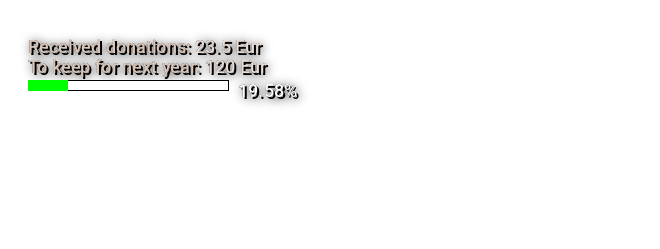
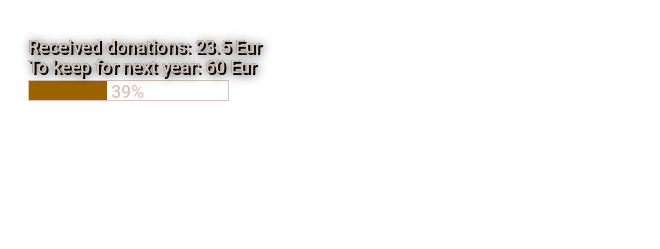
update

Changed region(s): [[0.0303, 0.1687, 0.4545, 0.4217]]

diff --git a/OpenCollective_API_image_server/UI_ESC_2_OpenCollective_Image_Server_Display/OpenCollective_API_image_server.py b/OpenCollective_API_image_server/UI_ESC_2_OpenCollective_Image_Server_Display/OpenCollective_API_image_server.py
@@ -81,52 +81,63 @@ def draw_project_info(draw, project_info, font):
     text_color = (218, 198, 184)  # Default text color
     shadow_color = (0, 0, 0)  # Shadow color
     shadow_offset = (2, 2)  # Offset for the shadow
-    red_color = (232,220,212)  # Red color for specific parts
+
+    # Define progress bar dimensions
+    progress_bar_width = 200
+    progress_bar_height = 20
+    progress_bar_x = 28
+    progress_bar_y = 80
+
+    # Calculate progress percentage
+    progress_percentage = min(1, project_info['total_amount_received'] / project_info['goal_amount'])
+
+    # Define gradient colors
+    start_color = (255, 0, 0)  # Red
+    end_color = (0, 255, 0)  # Green
+
+    # Interpolate color based on progress
+    current_color = (
+        int(start_color[0] + (end_color[0] - start_color[0]) * progress_percentage),
+        int(start_color[1] + (end_color[1] - start_color[1]) * progress_percentage),
+        int(start_color[2] + (end_color[2] - start_color[2]) * progress_percentage)
+    )
+
+    # Draw progress bar outline
+    draw.rectangle([progress_bar_x, progress_bar_y, progress_bar_x + progress_bar_width, progress_bar_y + progress_bar_height], outline=text_color)
+
+    # Draw progress bar filled with gradient color
+    draw.rectangle([progress_bar_x + 1, progress_bar_y + 1, progress_bar_x + 1 + int(progress_percentage * (progress_bar_width - 2)), progress_bar_y + progress_bar_height - 1], fill=current_color)
+
+    # Draw text showing progress percentage
+    progress_text = f"{int(progress_percentage * 100)}%"
+    text_width, text_height = draw.textsize(progress_text, font=font)
+    text_x = progress_bar_x + (progress_bar_width - text_width) // 2
+    text_y = progress_bar_y + (progress_bar_height - text_height) // 2
+    draw.text((text_x, text_y), progress_text, fill=text_color, font=font)
 
     # Draw total amount received
     total_amount_text = f"Received donations: "
     draw_text_with_shadow(draw, total_amount_text, (28, 36), font, text_color, shadow_color, shadow_offset)
 
-    # Draw total amount received value in red
+    # Draw total amount received value
     total_amount_received = f"{project_info['total_amount_received']} Eur"
-    draw_text_with_shadow(draw, total_amount_received, (28 + draw.textsize(total_amount_text, font=font)[0], 36), font, red_color, shadow_color, shadow_offset)
+    draw_text_with_shadow(draw, total_amount_received, (28 + draw.textsize(total_amount_text, font=font)[0], 36), font, text_color, shadow_color, shadow_offset)
 
     # Draw goal amount
     goal_amount_text = f"To keep for next year: "
     draw_text_with_shadow(draw, goal_amount_text, (28, 56), font, text_color, shadow_color, shadow_offset)
 
-    # Draw goal amount value in red
+    # Draw goal amount value
     goal_amount_value = f"{project_info['goal_amount']} Eur"
-    draw_text_with_shadow(draw, goal_amount_value, (28 + draw.textsize(goal_amount_text, font=font)[0], 56), font, red_color, shadow_color, shadow_offset)
+    draw_text_with_shadow(draw, goal_amount_value, (28 + draw.textsize(goal_amount_text, font=font)[0], 56), font, text_color, shadow_color, shadow_offset)
 
     # Draw project name
     # project_name_text = f"Project Name: "
     # draw_text_with_shadow(draw, project_name_text, (28, 76), font, text_color, shadow_color, shadow_offset)
 
-    # Draw project name value in red
+    # Draw project name value
     # project_name_value = f"{project_info['name']}"
-    # draw_text_with_shadow(draw, project_name_value, (28 + draw.textsize(project_name_text, font=font)[0], 76), font, red_color, shadow_color, shadow_offset)
-    
-
-    # Draw progress bar
-    progress_width = 200
-    progress_height = 10
-    progress_x = 28
-    progress_y = 80
-
-    # Calculate progress percentage
-    progress_percentage = min((project_info['total_amount_received'] / project_info['goal_amount']) * 100, 100)
-
-    # Draw progress bar background
-    draw.rectangle([progress_x, progress_y, progress_x + progress_width, progress_y + progress_height], fill=(255, 255, 255), outline=(0, 0, 0))
-
-    # Draw progress bar filled part
-    filled_width = int(progress_width * (progress_percentage / 100))
-    draw.rectangle([progress_x, progress_y, progress_x + filled_width, progress_y + progress_height], fill=(0, 255, 0))
-
-    # Draw progress percentage
-    progress_text = f"{progress_percentage:.2f}%"
-    draw_text_with_shadow(draw, progress_text, (progress_x + progress_width + 10, progress_y), font, (255, 255, 255), shadow_color, shadow_offset)
+    # draw_text_with_shadow(draw, project_name_value, (28 + draw.textsize(project_name_text, font=font)[0], 76), font, text_color, shadow_color, shadow_offset)
 
 
 class SimpleHTTPRequestHandler(BaseHTTPRequestHandler):
